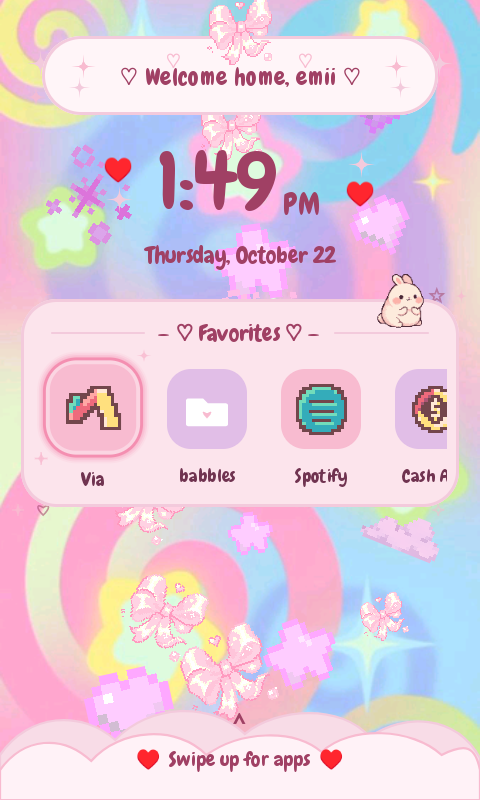
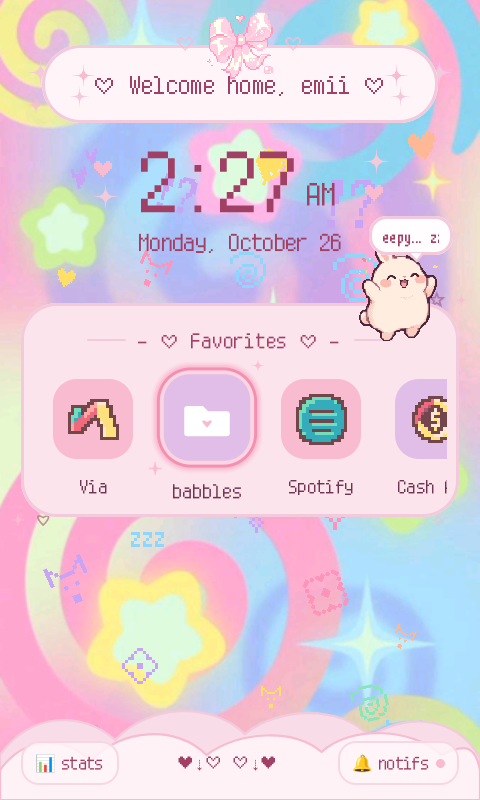
update fastlane and readme

diff --git a/README.md b/README.md
@@ -38,13 +38,13 @@ A lightweight, pastel Android launcher built with Jetpack Compose and Material 3
 
 <div align="center">
 
-| 🌸 Home Screen | 🎀 Folders | 🍡 App Drawer | 🗂 Recents |
-| :---: | :---: | :---: | :---: |
-| <img src="fastlane/metadata/android/en-US/images/phoneScreenshots/1_home.png" width="180" style="border-radius: 16px; border: 1.5px solid #ecd0d8;" alt="Home Screen" /> | <img src="fastlane/metadata/android/en-US/images/phoneScreenshots/2_folder.png" width="180" style="border-radius: 16px; border: 1.5px solid #ecd0d8;" alt="Folder Dialog" /> | <img src="fastlane/metadata/android/en-US/images/phoneScreenshots/3_appdrawer.png" width="180" style="border-radius: 16px; border: 1.5px solid #ecd0d8;" alt="App Drawer & T9 Filter" /> | <img src="fastlane/metadata/android/en-US/images/phoneScreenshots/4_recents.png" width="180" style="border-radius: 16px; border: 1.5px solid #ecd0d8;" alt="Recents Tasks" /> |
-
-| 🎵 Widgets & Music | 💌 Notifications | ⚙ Settings Hub |
+| 🌸 Home Screen | 🎀 Folders | 🗂 Recents |
 | :---: | :---: | :---: |
-| <img src="fastlane/metadata/android/en-US/images/phoneScreenshots/5_widgets.png" width="180" style="border-radius: 16px; border: 1.5px solid #ecd0d8;" alt="Widgets & Media Deck" /> | <img src="fastlane/metadata/android/en-US/images/phoneScreenshots/6_notifications.png" width="180" style="border-radius: 16px; border: 1.5px solid #ecd0d8;" alt="Notifications Screen" /> | <img src="fastlane/metadata/android/en-US/images/phoneScreenshots/7_info.png" width="180" style="border-radius: 16px; border: 1.5px solid #ecd0d8;" alt="System Info & Settings" /> |
+| <img src="fastlane/metadata/android/en-US/images/phoneScreenshots/1_home.png" width="180" style="border-radius: 16px; border: 1.5px solid #ecd0d8;" alt="Home Screen" /> | <img src="fastlane/metadata/android/en-US/images/phoneScreenshots/2_folder.png" width="180" style="border-radius: 16px; border: 1.5px solid #ecd0d8;" alt="Folder Dialog" /> | <img src="fastlane/metadata/android/en-US/images/phoneScreenshots/3_recents.png" width="180" style="border-radius: 16px; border: 1.5px solid #ecd0d8;" alt="Recents Tasks" /> |
+
+| 🎵 Widgets & Music | 💌 Notifications | 🌸 Kaomoji Wheel |
+| :---: | :---: | :---: |
+| <img src="fastlane/metadata/android/en-US/images/phoneScreenshots/4_widgets.png" width="180" style="border-radius: 16px; border: 1.5px solid #ecd0d8;" alt="Widgets & Media Deck" /> | <img src="fastlane/metadata/android/en-US/images/phoneScreenshots/5_notifications.png" width="180" style="border-radius: 16px; border: 1.5px solid #ecd0d8;" alt="Notifications Screen" /> | <img src="fastlane/metadata/android/en-US/images/phoneScreenshots/6_wheel.png" width="180" style="border-radius: 16px; border: 1.5px solid #ecd0d8;" alt="Kaomoji Radial Wheel" /> |
 
 </div>
 ---
